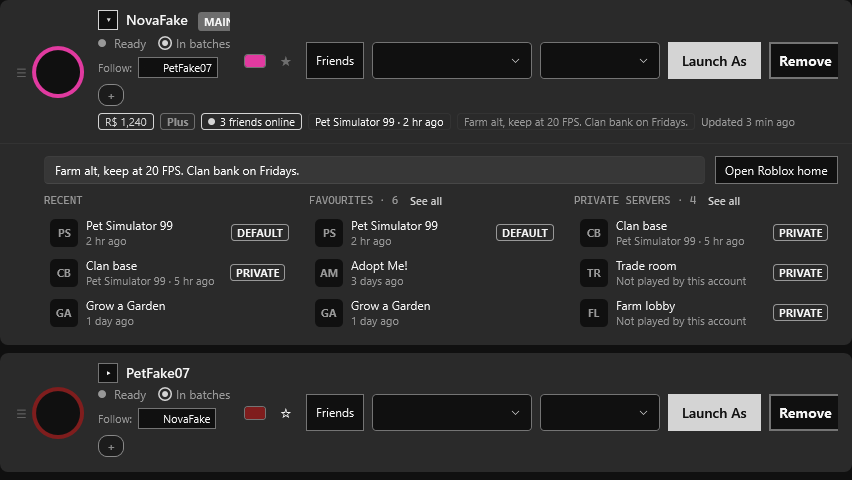
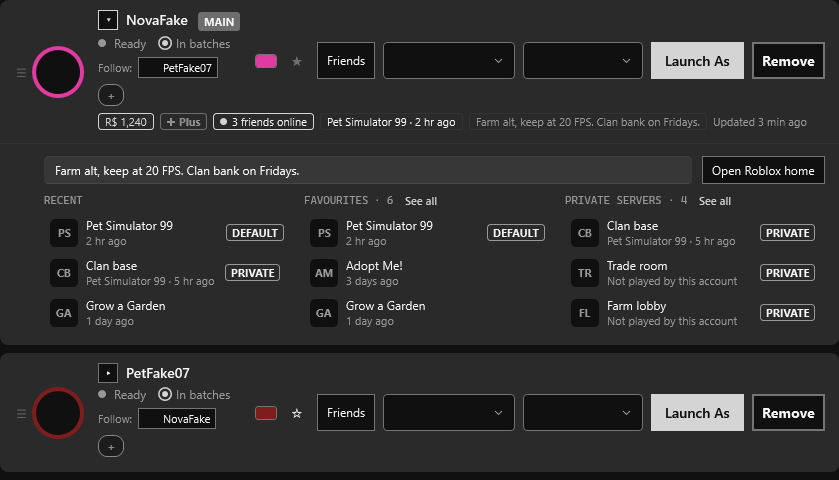
feat(ui): the Plus badge leads with our own plus glyph
Este's pick after C3: a plus glyph drawn in-house beside the word, not
Roblox's hexagon mark (their trademark; the listing claims no
affiliation). An 8 px two-stroke Path whose stroke follows the word, so
the expired-row white fallback reaches it; it sits inside the text line
and adds no height. Test pins order, colour in both states and height;
watched failing with the glyph missing, a fixed magenta stroke and a
22 px glyph. C2 captures regenerated at 100%.

diff --git a/src/ROROROblox.App/MainWindow.xaml b/src/ROROROblox.App/MainWindow.xaml
@@ -1281,7 +1281,16 @@
                         <Border Style="{StaticResource FactBadgePlusStyle}"
                                 AutomationProperties.Name="{Binding MembershipAccessibleName}"
                                 Visibility="{Binding ShowMembershipBadge, Converter={StaticResource BoolToVisibilityConverter}}">
-                            <TextBlock Text="{Binding MembershipText}" />
+                            <!-- Our own plus glyph, not Roblox's hexagon mark (Este, 2026-11-03: their icon is a trademark
+                                 and the listing claims no affiliation). Its stroke follows the word, so the expired-row
+                                 white fallback reaches it; 8 px fits inside the text line, so the badge keeps its height. -->
+                            <StackPanel Orientation="Horizontal">
+                                <Path x:Name="PlusGlyph" Data="M4,0 V8 M0,4 H8"
+                                      Width="8" Height="8" Margin="0,0,4,0" VerticalAlignment="Center"
+                                      StrokeThickness="2" SnapsToDevicePixels="True"
+                                      Stroke="{Binding Foreground, ElementName=PlusWord}" />
+                                <TextBlock x:Name="PlusWord" Text="{Binding MembershipText}" VerticalAlignment="Center" />
+                            </StackPanel>
                         </Border>
                         <Border Style="{StaticResource FactBadgeAccentStyle}"
                                 AutomationProperties.Name="{Binding FriendsOnlineAccessibleName}"

diff --git a/src/ROROROblox.Tests/Rendering/AccountPanelXamlTests.cs b/src/ROROROblox.Tests/Rendering/AccountPanelXamlTests.cs
@@ -262,6 +262,49 @@ public class AccountPanelXamlTests
         Assert.NotEqual(cyan, white);                           // vacuity: the two states are different colours
     }
 
+    /// <summary>
+    /// Este's call after C3 (2026-11-03, option a): the Plus badge leads with a plus glyph of our own drawing, not Roblox's
+    /// hexagon mark (a Roblox trademark; the listing claims no affiliation). The glyph is decoration on a badge that already
+    /// names itself, it takes the word's colour in both states (so the expired-row white fallback reaches it too), and it
+    /// costs the facts line no height: the Plus badge stays exactly as tall as the Robux badge beside it.
+    /// </summary>
+    [WindowRenderFact]
+    public void ThePlusBadge_LeadsWithOurOwnPlusGlyph_InTheWordsColour_AndAddsNoHeight()
+    {
+        string Hex(Brush? b) => b is SolidColorBrush s ? $"#{s.Color.R:X2}{s.Color.G:X2}{s.Color.B:X2}" : "<not a solid brush>";
+
+        foreach (var expired in new[] { false, true })
+        {
+            var m = ThemedWindowRender.Inspect(
+                MainWindowOneAccountFitsTests.BuiltIn("brand"), $"plus glyph, expired={expired}",
+                () => PanelWindowFixtures.Build(1, expanded: false, savedGames: true, plus: true,
+                    beforeOpen: (row, _) => { row.SessionExpired = expired; return Task.CompletedTask; }),
+                content =>
+                {
+                    var word = (TextBlock)ThemedWindowRender.Find(content, fe => fe is TextBlock { Text: "Plus" }, "the Plus text");
+                    var line = (Panel)VisualTreeHelper.GetParent(word);
+                    var glyph = (System.Windows.Shapes.Path)ThemedWindowRender.Find(content, fe => fe.Name == "PlusGlyph", "the plus glyph");
+                    Border Badge(DependencyObject node)
+                    {
+                        while (node is not null and not Border) node = VisualTreeHelper.GetParent(node);
+                        return (Border)node!;
+                    }
+
+                    var robux = (TextBlock)ThemedWindowRender.Find(content, fe => fe is TextBlock { Text: "R$ 1,240" }, "the Robux text");
+                    return (First: ReferenceEquals(line.Children[0], glyph) && line.Children.IndexOf(word) == 1,
+                        SameBadge: ReferenceEquals(Badge(glyph), Badge(word)),
+                        Stroke: Hex(glyph.Stroke), Word: Hex(word.Foreground),
+                        Unnamed: string.IsNullOrEmpty(AutomationProperties.GetName(glyph)),
+                        PlusHeight: Badge(word).ActualHeight, RobuxHeight: Badge(robux).ActualHeight);
+                });
+
+            Assert.True(m.First && m.SameBadge, $"expired={expired}: the glyph is not the first thing in the Plus badge, before the word");
+            Assert.Equal(m.Word, m.Stroke);
+            Assert.True(m.Unnamed, $"expired={expired}: the glyph carries its own accessible name; it is decoration (a Path has no peer) and the badge already names itself");
+            Assert.Equal(m.RobuxHeight, m.PlusHeight, precision: 2);
+        }
+    }
+
     [WindowRenderFact]
     public void SpaceOnTheExpander_TogglesThePanel()
     {

diff --git a/docs/decisions.md b/docs/decisions.md
@@ -872,3 +872,13 @@ Mine, not Este's, and open to a veto: the first measurement of the new text pair
 **Consequences:** At the minimum window size a long game name in the per-row picker trims about 28 DIP sooner. With no saved games, the empty picker's hint holds it wider than 132, so the pill fits with no DIP to spare in English and may clip in a longer language at 900 px. Two old records carry the inflated figures with a correction beside them: the checklist's item 7 note and the smoke doc's C2 run order. Nothing shipped on them.
 
 **Evidence:** `src/ROROROblox.Tests/Rendering/MainWindowOneAccountFitsTests.cs` (`Measure`, `AtTheDeclared900px_RemoveAndTheMainPillBothFit`); `src/ROROROblox.App/MainWindow.xaml` (the picker grid's comment); `docs/store/smoke-2026-11-01-account-library.md` (C2 eyes-on walk).
+
+### 2026-11-03 — The Plus badge draws our own plus glyph, not Roblox's mark
+
+**Context:** After the C2 walk Este asked whether the Plus membership badge could show Roblox's own Plus icon, the hexagon. That icon is a Roblox mark. The Store listing, the About box and the README all state that RoRoRo is not affiliated with Roblox Corporation and uses the word "Roblox" only to describe compatibility. Shipping their logo in the binary pushes against that statement and risks Store IP review.
+
+**Decision:** Option (a), Este's pick: the badge leads with a plus glyph drawn in-house (an 8 px Path, two strokes) beside the existing word, inside the existing magenta outline. Its stroke binds to the word's foreground, so the expired-row white fallback reaches it. It sits inside the text line, so the facts line keeps its height.
+
+**Consequences:** `AccountPanelXamlTests.ThePlusBadge_LeadsWithOurOwnPlusGlyph_InTheWordsColour_AndAddsNoHeight` pins the order, the colour in both states, and the height. It was watched failing three ways: the glyph missing, a hard-wired magenta stroke, and a 22 px glyph (badge 17 to 24 px). A 14 px glyph does not fail it, since it still fits the line. Revisit if Roblox publishes brand guidance permitting third-party use of the Plus icon.
+
+**Evidence:** `src/ROROROblox.App/MainWindow.xaml` (the Plus badge); `docs/cycles/2026-11-01-account-library/mocks/compare/c2-window-brand-96dpi.png`.
